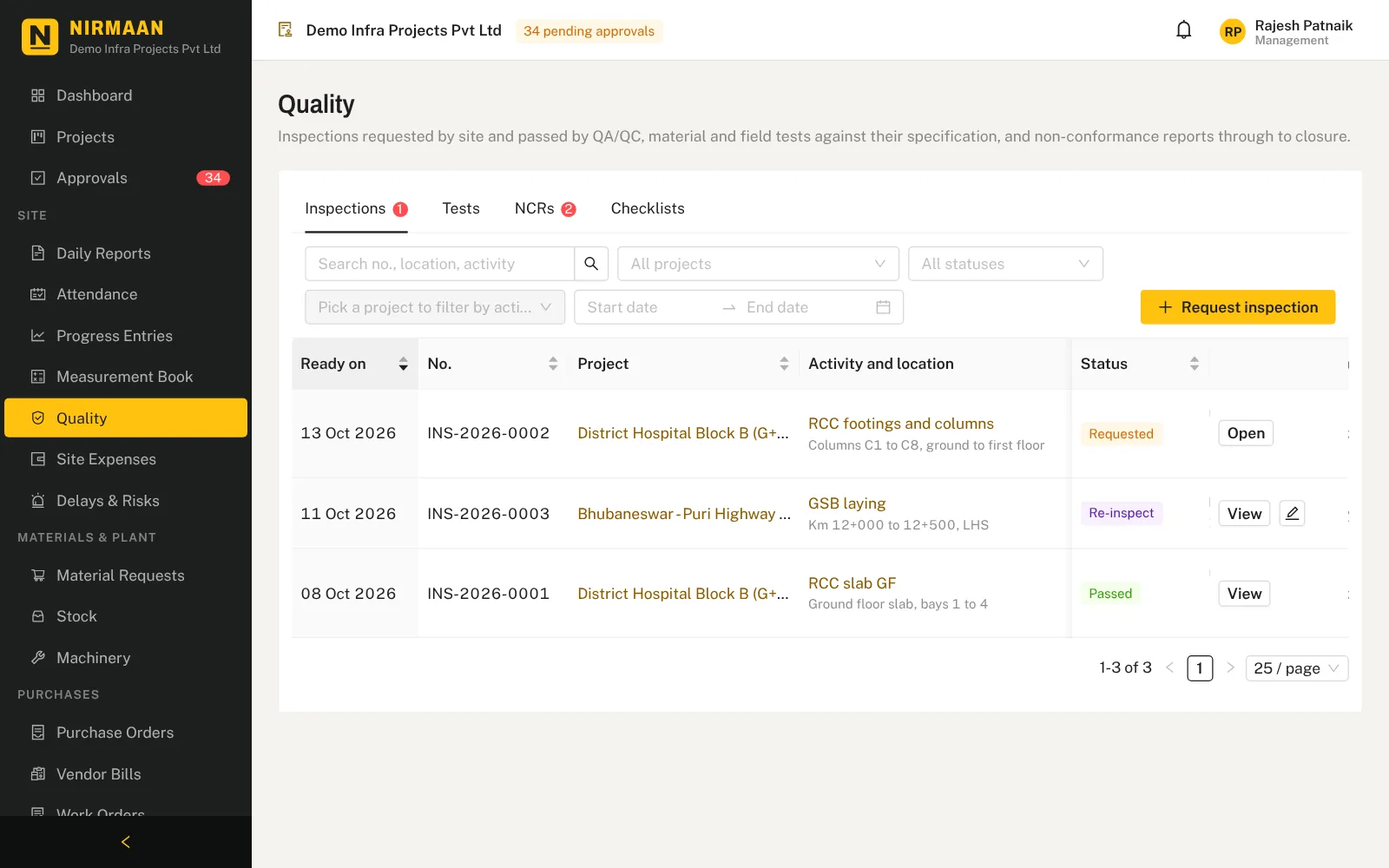
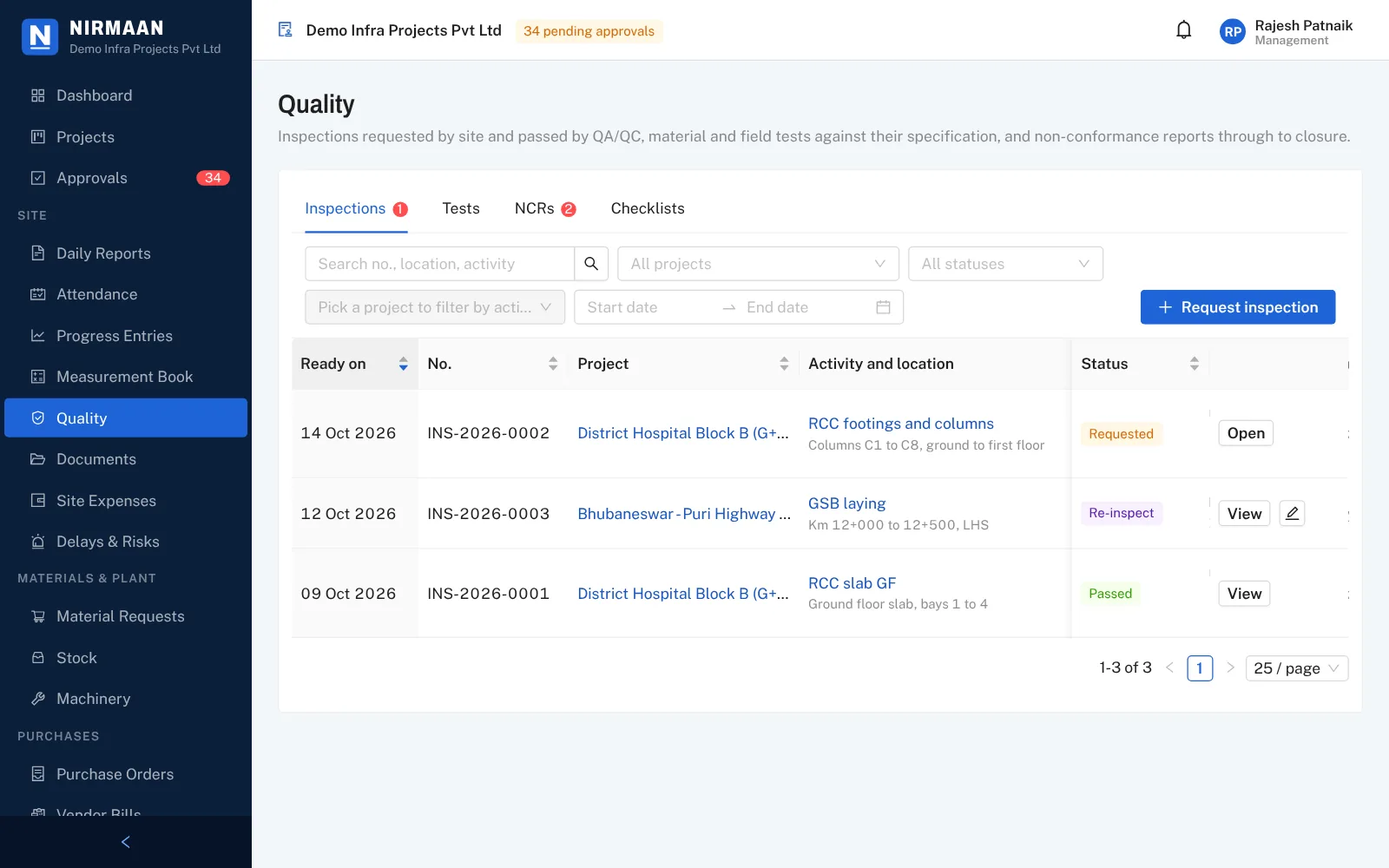
Nirmaan blue theme: blue mark, navy shell and blueprint sign-in
Web: Nirmaan blue (#1E63D6) for the mark, primary buttons, links and the
selected menu item, with white text on it; a blueprint navy (#0B1F3A)
sidebar; the sign-in pages move from yellow with a hazard band to navy
with a faint drawing grid and a blue datum band; cool greys replace the
warm ones. The printed reports and the landing page follow BRAND.

Site app: blue theme, icon, adaptive icon, splash and favicon redrawn in
blue with a white N; navy splash background.

Emails: navy header, blue mark, datum line and button.

Landing page web screenshots re-shot in the new theme.

Claude-Session: https://claude.ai/code/session_012Nf4NrEpVeBAzpdNQcX33d

diff --git a/apps/web/src/app/globals.css b/apps/web/src/app/globals.css
@@ -37,14 +37,20 @@ a {
   white-space: nowrap;
 }
 
-/* Sign-in pages: hi-vis yellow with a hazard-tape band along the bottom edge. */
+/* Sign-in pages: blueprint navy with a faint drawing grid and a blue datum band along the bottom edge. */
 .login-bg {
   position: relative;
   min-height: 100vh;
   display: flex;
   align-items: center;
   justify-content: center;
-  background: var(--brand-accent);
+  background-color: var(--brand-ink);
+  background-image:
+    linear-gradient(rgba(110, 168, 255, 0.07) 1px, transparent 1px),
+    linear-gradient(90deg, rgba(110, 168, 255, 0.07) 1px, transparent 1px),
+    linear-gradient(rgba(110, 168, 255, 0.13) 1px, transparent 1px),
+    linear-gradient(90deg, rgba(110, 168, 255, 0.13) 1px, transparent 1px);
+  background-size: 24px 24px, 24px 24px, 120px 120px, 120px 120px;
   padding: 24px 24px 48px;
 }
 
@@ -54,8 +60,8 @@ a {
   left: 0;
   right: 0;
   bottom: 0;
-  height: 14px;
-  background: repeating-linear-gradient(-45deg, var(--brand-ink) 0 14px, var(--brand-accent) 14px 28px);
+  height: 10px;
+  background: var(--brand-accent);
 }
 
 /* Headings and the wordmark use the condensed display face; figures line up in tables and statistics. */
@@ -127,39 +133,39 @@ h4.ant-typography,
 .lp-wrap { max-width: 1160px; margin: 0 auto; padding: 0 24px; }
 .lp-nav { display: flex; align-items: center; justify-content: space-between; padding: 14px 32px; background: var(--brand-ink); position: sticky; top: 0; z-index: 10; }
 .lp-nav nav { display: flex; align-items: center; gap: 24px; }
-.lp-nav nav a { color: #e9e7e0; font-weight: 500; }
-.lp-nav nav a:hover { color: var(--brand-accent); }
+.lp-nav nav a { color: #e6ebf2; font-weight: 500; }
+.lp-nav nav a:hover { color: var(--brand-accent-light); }
 .lp-brand { display: inline-flex; align-items: center; gap: 10px; }
 .lp-hero { background: var(--brand-ink); color: #fff; display: grid; grid-template-columns: minmax(0, 5fr) minmax(0, 6fr); gap: 40px; align-items: center; padding: 56px max(24px, calc((100vw - 1160px) / 2 + 24px)) 0; overflow: hidden; }
 .lp-hero h1 { color: #fff; font-size: clamp(38px, 5.4vw, 64px); font-weight: 800; font-stretch: 85%; line-height: 1.02; letter-spacing: -0.01em; margin-bottom: 18px; }
-.lp-kicker, .lp-eyebrow { color: var(--brand-accent); text-transform: uppercase; letter-spacing: .14em; font-size: 13px; font-weight: 700; margin-bottom: 14px !important; }
+.lp-kicker, .lp-eyebrow { color: var(--brand-accent-light); text-transform: uppercase; letter-spacing: .14em; font-size: 13px; font-weight: 700; margin-bottom: 14px !important; }
 .lp-eyebrow { color: var(--brand-link); margin-bottom: 8px !important; }
-.lp-lead { font-size: 18px; line-height: 1.55; color: #d8d6cf; max-width: 540px; }
-.lp-small { font-size: 13px; color: #a9a7a0; margin-top: 14px !important; max-width: 520px; }
+.lp-lead { font-size: 18px; line-height: 1.55; color: #cbd5e1; max-width: 540px; }
+.lp-small { font-size: 13px; color: #94a3b8; margin-top: 14px !important; max-width: 520px; }
 .lp-cta { display: flex; gap: 12px; flex-wrap: wrap; margin-top: 28px; }
 .lp-cta-center { justify-content: center; }
-.lp-ghost.ant-btn-default { background: transparent; color: #fff; border-color: #6b6f6c; }
+.lp-ghost.ant-btn-default { background: transparent; color: #fff; border-color: #51627a; }
 .lp-hero-text { padding-bottom: 56px; }
 .lp-hero-art { position: relative; align-self: end; min-height: 380px; }
 .lp-shot-web { width: 100%; height: auto; display: block; border-radius: 10px 10px 0 0; box-shadow: 0 -10px 40px rgba(0,0,0,.45); }
-.lp-shot-phone { position: absolute; left: -36px; bottom: 24px; width: 30%; height: auto; border-radius: 22px; border: 6px solid #0e100f; box-shadow: 0 18px 40px rgba(0,0,0,.5); }
+.lp-shot-phone { position: absolute; left: -36px; bottom: 24px; width: 30%; height: auto; border-radius: 22px; border: 6px solid var(--brand-ink-deep); box-shadow: 0 18px 40px rgba(0,0,0,.5); }
 .lp-datum { height: 8px; background: var(--brand-accent); }
 .lp-band { background: #fff; border-bottom: 1px solid var(--brand-border); padding: 40px 0; }
 .lp-three { display: grid; grid-template-columns: repeat(3, 1fr); gap: 32px; }
 .lp-three .anticon { font-size: 26px; color: var(--brand-link); margin-bottom: 10px; }
 .lp-three h3 { font-size: 20px; font-weight: 800; margin-bottom: 6px; }
-.lp-three p, .lp-card p, .lp-steps p, .lp-feats p, .lp-panel-lead, .lp-final p, .lp-faq details p { color: #4a4e4b; line-height: 1.55; }
+.lp-three p, .lp-card p, .lp-steps p, .lp-feats p, .lp-panel-lead, .lp-final p, .lp-faq details p { color: #475467; line-height: 1.55; }
 .lp-section { padding: 72px 24px; }
 .lp-section h2, .lp-how h2 { font-size: clamp(28px, 3.4vw, 40px); font-weight: 800; font-stretch: 87.5%; line-height: 1.08; margin-bottom: 28px; max-width: 760px; }
 .lp-card { background: #fff; border: 1px solid var(--brand-border); border-radius: 8px; padding: 20px; }
 .lp-card h3 { font-size: 18px; font-weight: 700; margin: 0 0 6px; }
-.lp-icon { display: inline-flex; flex: 0 0 36px; width: 36px; height: 36px; border-radius: 8px; align-items: center; justify-content: center; background: var(--brand-accent); color: var(--brand-ink); font-size: 18px; }
+.lp-icon { display: inline-flex; flex: 0 0 36px; width: 36px; height: 36px; border-radius: 8px; align-items: center; justify-content: center; background: var(--brand-accent); color: var(--brand-on-accent); font-size: 18px; }
 
 /* Module tabs */
 .lp-tabs { display: flex; gap: 6px; flex-wrap: wrap; padding: 4px; background: #fff; border: 1px solid var(--brand-border); border-radius: 10px; width: fit-content; max-width: 100%; margin-bottom: 28px; }
 .lp-tab { appearance: none; border: 0; background: transparent; color: var(--brand-ink); font: inherit; font-weight: 600; padding: 9px 16px; border-radius: 7px; cursor: pointer; }
 .lp-tab:hover { background: var(--brand-canvas); }
-.lp-tab[aria-selected='true'] { background: var(--brand-ink); color: var(--brand-accent); }
+.lp-tab[aria-selected='true'] { background: var(--brand-ink); color: #fff; }
 .lp-tab:focus-visible { outline: 2px solid var(--brand-accent-deep); outline-offset: 2px; }
 .lp-panel { display: grid; grid-template-columns: minmax(0, 5fr) minmax(0, 7fr); gap: 40px; align-items: start; }
 .lp-panel[hidden] { display: none; }
@@ -170,7 +176,7 @@ h4.ant-typography,
 .lp-feats li { display: flex; gap: 14px; align-items: flex-start; }
 .lp-feats h4 { font-size: 16px; font-weight: 700; margin-bottom: 2px; }
 .lp-feats p { font-size: 14px; }
-.lp-frame { margin: 0; background: #fff; border: 1px solid var(--brand-border); border-radius: 10px; overflow: hidden; box-shadow: 0 18px 40px rgba(28,31,30,.12); }
+.lp-frame { margin: 0; background: #fff; border: 1px solid var(--brand-border); border-radius: 10px; overflow: hidden; box-shadow: 0 18px 40px rgba(11,31,58,.12); }
 .lp-frame-bar { display: flex; gap: 6px; padding: 9px 12px; background: var(--brand-canvas); border-bottom: 1px solid var(--brand-border); }
 .lp-frame-bar i { width: 9px; height: 9px; border-radius: 50%; background: var(--brand-border); }
 .lp-frame img { width: 100%; height: auto; display: block; }
@@ -178,16 +184,16 @@ h4.ant-typography,
 /* Money flows on dark */
 .lp-dark { background: var(--brand-ink); }
 .lp-dark h2 { color: #fff; }
-.lp-dark .lp-eyebrow { color: var(--brand-accent); }
-.lp-dark-lead { color: #d8d6cf; font-size: 17px; line-height: 1.55; max-width: 680px; margin: -12px 0 32px !important; }
+.lp-dark .lp-eyebrow { color: var(--brand-accent-light); }
+.lp-dark-lead { color: #cbd5e1; font-size: 17px; line-height: 1.55; max-width: 680px; margin: -12px 0 32px !important; }
 .lp-flows { display: flex; flex-direction: column; gap: 14px; }
 .lp-flow { display: grid; grid-template-columns: 210px minmax(0, 1fr); gap: 16px; align-items: center; padding: 16px 18px; border: 1px solid var(--brand-primary-deep); border-radius: 10px; background: var(--brand-ink-deep); }
-.lp-flow-name { color: var(--brand-accent); font-family: var(--font-display), Arial, sans-serif; font-weight: 800; font-size: 18px; }
+.lp-flow-name { color: var(--brand-accent-light); font-family: var(--font-display), Arial, sans-serif; font-weight: 800; font-size: 18px; }
 .lp-flow ol { list-style: none; margin: 0; padding: 0; display: flex; flex-wrap: wrap; align-items: center; gap: 8px; }
-.lp-flow li { color: #e9e7e0; font-size: 14px; font-weight: 500; padding: 6px 12px; border: 1px solid #6b6f6c; border-radius: 999px; position: relative; }
+.lp-flow li { color: #e6ebf2; font-size: 14px; font-weight: 500; padding: 6px 12px; border: 1px solid #51627a; border-radius: 999px; position: relative; }
 .lp-flow li + li { margin-left: 18px; }
-.lp-flow li + li::before { content: ''; position: absolute; left: -20px; top: 50%; width: 14px; height: 2px; background: var(--brand-accent); }
-.lp-flow li.lp-flow-end { background: var(--brand-accent); border-color: var(--brand-accent); color: var(--brand-ink); font-weight: 700; margin-left: 0; }
+.lp-flow li + li::before { content: ''; position: absolute; left: -20px; top: 50%; width: 14px; height: 2px; background: var(--brand-accent-light); }
+.lp-flow li.lp-flow-end { background: var(--brand-accent); border-color: var(--brand-accent); color: var(--brand-on-accent); font-weight: 700; margin-left: 0; }
 .lp-flow li.lp-flow-end::before { display: none; }
 .lp-flow li.lp-flow-end .anticon { margin-right: 4px; }
 
@@ -195,7 +201,7 @@ h4.ant-typography,
 .lp-local { display: grid; grid-template-columns: minmax(0, 5fr) minmax(0, 6fr); gap: 48px; align-items: center; }
 .lp-checks { list-style: none; padding: 0; margin: 0; display: flex; flex-direction: column; gap: 12px; }
 .lp-checks li { display: flex; gap: 12px; align-items: flex-start; line-height: 1.5; }
-.lp-checks .anticon { flex: 0 0 22px; height: 22px; border-radius: 50%; background: var(--brand-ink); color: var(--brand-accent); display: inline-flex; align-items: center; justify-content: center; font-size: 12px; margin-top: 1px; }
+.lp-checks .anticon { flex: 0 0 22px; height: 22px; border-radius: 50%; background: var(--brand-accent); color: var(--brand-on-accent); display: inline-flex; align-items: center; justify-content: center; font-size: 12px; margin-top: 1px; }
 
 /* Roles */
 .lp-roles { background: #fff; border-top: 1px solid var(--brand-border); }
@@ -208,9 +214,9 @@ h4.ant-typography,
 .lp-steps { list-style: none; padding: 0; margin: 0; display: flex; flex-direction: column; gap: 22px; }
 .lp-steps li { display: flex; gap: 16px; }
 .lp-steps h3 { font-size: 20px; font-weight: 800; margin-bottom: 4px; }
-.lp-num { flex: 0 0 40px; height: 40px; border-radius: 50%; background: var(--brand-ink); color: var(--brand-accent); display: inline-flex; align-items: center; justify-content: center; font-weight: 800; font-family: var(--font-display), Arial, sans-serif; font-size: 18px; }
+.lp-num { flex: 0 0 40px; height: 40px; border-radius: 50%; background: var(--brand-accent); color: var(--brand-on-accent); display: inline-flex; align-items: center; justify-content: center; font-weight: 800; font-family: var(--font-display), Arial, sans-serif; font-size: 18px; }
 .lp-phones { display: flex; gap: 20px; justify-content: center; }
-.lp-phones img { width: 44%; max-width: 250px; height: auto; border-radius: 22px; border: 6px solid var(--brand-ink); box-shadow: 0 14px 30px rgba(28,31,30,.18); }
+.lp-phones img { width: 44%; max-width: 250px; height: auto; border-radius: 22px; border: 6px solid var(--brand-ink); box-shadow: 0 14px 30px rgba(11,31,58,.18); }
 
 /* FAQ */
 .lp-faq > div { max-width: 820px; border-top: 1px solid var(--brand-border); }
@@ -226,11 +232,11 @@ h4.ant-typography,
 .lp-final h2 { margin-left: auto; margin-right: auto; }
 .lp-final p { max-width: 580px; margin: -12px auto 0 !important; }
 .lp-final-icon { font-size: 34px; color: var(--brand-link); margin-bottom: 12px; }
-.lp-foot { background: var(--brand-ink); color: #a9a7a0; padding: 22px 0; font-size: 13px; }
+.lp-foot { background: var(--brand-ink); color: #94a3b8; padding: 22px 0; font-size: 13px; }
 .lp-foot-inner { display: flex; align-items: center; justify-content: space-between; gap: 16px; flex-wrap: wrap; }
 .lp-foot-links { display: flex; gap: 18px; flex-wrap: wrap; }
-.lp-foot-links a { color: #e9e7e0; }
-.lp-foot-links a:hover { color: var(--brand-accent); }
+.lp-foot-links a { color: #e6ebf2; }
+.lp-foot-links a:hover { color: var(--brand-accent-light); }
 
 @media (max-width: 1000px) {
   .lp-role-grid { grid-template-columns: repeat(2, 1fr); }

diff --git a/apps/api/src/notifications/email-layout.ts b/apps/api/src/notifications/email-layout.ts
@@ -2,12 +2,12 @@ import { PRODUCT_NAME } from '@erp/shared';
 import { escapeHtml } from './email.service';
 
 /**
- * The Nirmaan frame for every email: a black header with the yellow N mark and wordmark, a yellow datum line,
+ * The Nirmaan frame for every email: a navy header with the blue N mark and wordmark, a blue datum line,
  * the message on white, and a short footer. Tables and inline styles only, and the mark is drawn in HTML rather
  * than an image, so it shows in Gmail and Outlook with images blocked. Same colours as the web brand
  * (apps/web/src/lib/brand.ts).
  */
-export const EMAIL_COLORS = { ink: '#1C1F1E', accent: '#FFC20E', canvas: '#F4F3EF', border: '#E3E1DA', muted: '#6B6F6C', link: '#8A5A00' } as const;
+export const EMAIL_COLORS = { ink: '#0B1F3A', accent: '#1E63D6', onAccent: '#FFFFFF', canvas: '#F3F6FA', border: '#DCE3ED', muted: '#5B6779', link: '#1A56BF' } as const;
 
 const DISPLAY = `Archivo,'Arial Narrow','Helvetica Neue',Arial,sans-serif`;
 const BODY = `-apple-system,'Segoe UI',Roboto,Helvetica,Arial,sans-serif`;
@@ -23,15 +23,15 @@ export interface EmailLayout {
   footnote?: string;
 }
 
-/** A call-to-action button on the brand yellow. */
+/** A call-to-action button on the brand blue. */
 export function emailButton(href: string, label: string) {
   return `<table role="presentation" cellpadding="0" cellspacing="0" style="margin:24px 0"><tr><td style="background:${EMAIL_COLORS.accent};border-radius:4px">
-    <a href="${escapeHtml(href)}" style="display:inline-block;padding:11px 20px;font-family:${BODY};font-size:15px;font-weight:700;color:${EMAIL_COLORS.ink};text-decoration:none">${escapeHtml(label)}</a>
+    <a href="${escapeHtml(href)}" style="display:inline-block;padding:11px 20px;font-family:${BODY};font-size:15px;font-weight:700;color:${EMAIL_COLORS.onAccent};text-decoration:none">${escapeHtml(label)}</a>
   </td></tr></table>`;
 }
 
 export function emailLayout({ preheader, body, orgName, footnote }: EmailLayout) {
-  const mark = `<td style="width:28px;height:28px;background:${EMAIL_COLORS.accent};border-radius:6px;text-align:center;vertical-align:middle;font-family:${DISPLAY};font-size:19px;font-weight:800;line-height:28px;color:${EMAIL_COLORS.ink}">N</td>`;
+  const mark = `<td style="width:28px;height:28px;background:${EMAIL_COLORS.accent};border-radius:6px;text-align:center;vertical-align:middle;font-family:${DISPLAY};font-size:19px;font-weight:800;line-height:28px;color:${EMAIL_COLORS.onAccent}">N</td>`;
   const wordmark = `<td style="padding-left:10px;font-family:${DISPLAY};font-size:17px;font-weight:800;letter-spacing:2px;color:#FFFFFF">${escapeHtml(PRODUCT_NAME.toUpperCase())}</td>`;
   return `<!doctype html><html><head><meta charset="utf-8"/><meta name="viewport" content="width=device-width,initial-scale=1"/><meta name="color-scheme" content="light"/></head>
 <body style="margin:0;padding:0;background:${EMAIL_COLORS.canvas}">

diff --git a/apps/web/src/lib/brand.ts b/apps/web/src/lib/brand.ts
@@ -11,23 +11,27 @@ export const BRAND = {
   wordmark: 'NIRMAAN',
   description: 'Site progress, billing, purchases, quality and approvals for construction contractors',
   colors: {
-    /** Signboard black: antd primary (checkboxes, tabs, progress bars), sidebar, headings in printed reports. */
-    primary: '#1C1F1E',
-    /** Menu hover on the dark sidebar. */
-    primaryDeep: '#2E3230',
-    ink: '#1C1F1E',
-    inkDeep: '#0E100F',
-    /** Hi-vis yellow: the mark, primary buttons, the selected menu item. Text on it is `ink`. */
-    accent: '#FFC20E',
-    accentDeep: '#E0A800',
-    /** Links: a dark amber that reads on white. */
-    link: '#8A5A00',
-    /** Pending and alerts (brick orange; yellow is the brand, so it cannot also mean "pending"). */
+    /** Nirmaan blue: antd primary (buttons, checkboxes, tabs, progress bars, the selected menu item). */
+    primary: '#1E63D6',
+    /** Menu hover on the navy sidebar. */
+    primaryDeep: '#17345E',
+    /** Blueprint navy: the sidebar, the sign-in page, headings in printed reports. */
+    ink: '#0B1F3A',
+    inkDeep: '#061328',
+    /** Nirmaan blue: the mark, primary buttons, the selected menu item. Text on it is `onAccent`. */
+    accent: '#1E63D6',
+    accentDeep: '#164FB3',
+    /** A lighter blue for text and icons on the navy (the wordmark's surroundings, landing page highlights). */
+    accentLight: '#6EA8FF',
+    onAccent: '#FFFFFF',
+    /** Links: a deeper blue that reads on white. */
+    link: '#1A56BF',
+    /** Pending and alerts (brick orange, so it never reads as the brand blue). */
     pending: '#C2410C',
     /** Approve and pass buttons. */
     success: '#1F9D55',
-    canvas: '#F4F3EF',
-    border: '#E3E1DA',
+    canvas: '#F3F6FA',
+    border: '#DCE3ED',
   },
 } as const;
 
@@ -39,6 +43,8 @@ export const brandCssVars: Record<string, string> = {
   '--brand-ink-deep': BRAND.colors.inkDeep,
   '--brand-accent': BRAND.colors.accent,
   '--brand-accent-deep': BRAND.colors.accentDeep,
+  '--brand-accent-light': BRAND.colors.accentLight,
+  '--brand-on-accent': BRAND.colors.onAccent,
   '--brand-link': BRAND.colors.link,
   '--brand-canvas': BRAND.colors.canvas,
   '--brand-border': BRAND.colors.border,

diff --git a/apps/web/src/components/print/printBrand.ts b/apps/web/src/components/print/printBrand.ts
@@ -1,8 +1,8 @@
 import { BRAND } from '@/lib/brand';
 
 /**
- * The Nirmaan look for the printable documents (DPR, progress report): Archivo headings, the black rule with
- * the yellow datum line under the header, and a footer with the N mark. The organisation's own name stays the
+ * The Nirmaan look for the printable documents (DPR, progress report): Archivo headings, the navy rule with
+ * the blue datum line under the header, and a footer with the N mark. The organisation's own name stays the
  * main heading, since the report is theirs; Nirmaan signs the footer.
  */
 
@@ -14,7 +14,7 @@ const DISPLAY = `"Archivo", "Arial Narrow", "Helvetica Neue", Arial, sans-serif`
 
 /** The mark as inline SVG (same drawing as app/icon.svg and BrandMark). */
 export function markSvg(size: number) {
-  return `<svg width="${size}" height="${size}" viewBox="0 0 64 64" aria-hidden="true" style="display:block;flex:0 0 auto"><rect width="64" height="64" rx="12" fill="${BRAND.colors.accent}"/><path d="M15 46V12h9.5l15 20.5V12H49v34h-9.5L24.5 25.5V46z" fill="${BRAND.colors.ink}"/><rect x="15" y="50" width="34" height="3" rx="1.5" fill="${BRAND.colors.ink}"/></svg>`;
+  return `<svg width="${size}" height="${size}" viewBox="0 0 64 64" aria-hidden="true" style="display:block;flex:0 0 auto"><rect width="64" height="64" rx="12" fill="${BRAND.colors.accent}"/><path d="M15 46V12h9.5l15 20.5V12H49v34h-9.5L24.5 25.5V46z" fill="${BRAND.colors.onAccent}"/><rect x="15" y="50" width="34" height="3" rx="1.5" fill="${BRAND.colors.onAccent}"/></svg>`;
 }
 
 /** Styles shared by both documents; each document keeps its own layout CSS. */

diff --git a/apps/web/src/app/providers.tsx b/apps/web/src/app/providers.tsx
@@ -32,14 +32,14 @@ export function Providers({ children }: { children: React.ReactNode }) {
           fontFamily: "var(--font-body), -apple-system, BlinkMacSystemFont, 'Segoe UI', Roboto, Arial, sans-serif",
         },
         components: {
-          Layout: { headerBg: '#ffffff', siderBg: c.ink, bodyBg: c.canvas, triggerBg: c.inkDeep, triggerColor: c.accent },
-          // Primary buttons are hi-vis yellow with black text; everything else that is "primary" stays black.
-          Button: { colorPrimary: c.accent, colorPrimaryHover: c.accentDeep, colorPrimaryActive: c.accentDeep, primaryColor: c.ink, primaryShadow: 'none', fontWeight: 600 },
+          Layout: { headerBg: '#ffffff', siderBg: c.ink, bodyBg: c.canvas, triggerBg: c.inkDeep, triggerColor: c.accentLight },
+          // Primary buttons are Nirmaan blue with white text.
+          Button: { colorPrimary: c.accent, colorPrimaryHover: c.accentDeep, colorPrimaryActive: c.accentDeep, primaryColor: c.onAccent, primaryShadow: 'none', fontWeight: 600 },
           Menu: {
             darkItemBg: c.ink,
             darkSubMenuItemBg: c.ink,
             darkItemSelectedBg: c.accent,
-            darkItemSelectedColor: c.ink,
+            darkItemSelectedColor: c.onAccent,
             darkItemHoverBg: c.primaryDeep,
             darkGroupTitleColor: 'rgba(255,255,255,0.45)',
             itemHeight: 36,

diff --git a/apps/mobile/src/theme.ts b/apps/mobile/src/theme.ts
@@ -1,24 +1,24 @@
 import type { SubmissionStatus } from '@erp/shared';
 
 /**
- * Nirmaan palette (same as the web app's src/lib/brand.ts). `primary` is signboard black for text, icons and
- * selection; `brand` is hi-vis yellow for the mark and primary buttons, always with `onBrand` text. Yellow is the
- * brand, so "pending" uses brick orange (`warning`).
+ * Nirmaan palette (same as the web app's src/lib/brand.ts). `primary` is Nirmaan blue for links, icons and
+ * selection, `primaryDark` the blueprint navy for big figures; `brand` is the same blue for the mark and primary
+ * buttons, always with `onBrand` (white) text. "Pending" uses brick orange (`warning`) so it never reads as the brand.
  */
 export const colors = {
-  primary: '#1C1F1E',
-  primaryDark: '#0E100F',
-  primarySoft: '#ECEBE6',
-  brand: '#FFC20E',
-  brandSoft: '#FFF4CC',
-  onBrand: '#1C1F1E',
+  primary: '#1E63D6',
+  primaryDark: '#0B1F3A',
+  primarySoft: '#E6EEFB',
+  brand: '#1E63D6',
+  brandSoft: '#DCE8FB',
+  onBrand: '#FFFFFF',
   accent: '#EA580C',
   accentSoft: '#FFEDD5',
-  bg: '#F4F3EF',
+  bg: '#F3F6FA',
   surface: '#FFFFFF',
-  border: '#E3E1DA',
-  text: '#1C1F1E',
-  textMuted: '#5E625F',
+  border: '#DCE3ED',
+  text: '#0F1B2D',
+  textMuted: '#5B6779',
   textOnPrimary: '#FFFFFF',
   success: '#1B7F4B',
   successSoft: '#E2F3E9',

diff --git a/apps/web/src/components/shell/AppShell.tsx b/apps/web/src/components/shell/AppShell.tsx
@@ -72,7 +72,7 @@ function Brand({ user, collapsed }: { user: AuthUser; collapsed: boolean }) {
       <BrandMark />
       {!collapsed && (
         <div style={{ lineHeight: 1.15, whiteSpace: 'nowrap' }}>
-          <Wordmark color={BRAND.colors.accent} size={19} />
+          <Wordmark color={BRAND.colors.onAccent} size={19} />
           <div style={{ color: 'rgba(255,255,255,0.55)', fontSize: 11, marginTop: 4 }}>{user.organizationName}</div>
         </div>
       )}
@@ -251,7 +251,7 @@ export function AppShell({ user, children }: { user: AuthUser; children: React.R
             <Dropdown menu={{ items: userMenu }} trigger={['click']}>
             <Button type="text" style={{ height: 40, padding: '0 8px' }}>
               <Space>
-                <Avatar size="small" style={{ background: BRAND.colors.accent, color: BRAND.colors.ink, fontWeight: 700 }}>
+                <Avatar size="small" style={{ background: BRAND.colors.accent, color: BRAND.colors.onAccent, fontWeight: 700 }}>
                   {initials}
                 </Avatar>
                 {!isMobile && (

diff --git a/apps/web/src/components/shell/BrandMark.tsx b/apps/web/src/components/shell/BrandMark.tsx
@@ -1,13 +1,13 @@
 import React from 'react';
 import { BRAND } from '@/lib/brand';
 
-/** The logo mark (a heavy N on a datum line, on hi-vis yellow) used in the sidebar, the mobile header and the sign-in card. Same drawing as app/icon.svg. */
+/** The logo mark (a heavy N on a datum line, white on Nirmaan blue) used in the sidebar, the mobile header and the sign-in card. Same drawing as app/icon.svg. */
 export function BrandMark({ size = 34 }: { size?: number }) {
   return (
     <svg width={size} height={size} viewBox="0 0 64 64" style={{ flex: '0 0 auto', display: 'block' }} aria-hidden>
       <rect width="64" height="64" rx="12" fill={BRAND.colors.accent} />
-      <path d="M15 46V12h9.5l15 20.5V12H49v34h-9.5L24.5 25.5V46z" fill={BRAND.colors.ink} />
-      <rect x="15" y="50" width="34" height="3" rx="1.5" fill={BRAND.colors.ink} />
+      <path d="M15 46V12h9.5l15 20.5V12H49v34h-9.5L24.5 25.5V46z" fill={BRAND.colors.onAccent} />
+      <rect x="15" y="50" width="34" height="3" rx="1.5" fill={BRAND.colors.onAccent} />
     </svg>
   );
 }

diff --git a/apps/mobile/src/notifications/push.ts b/apps/mobile/src/notifications/push.ts
@@ -4,6 +4,7 @@ import * as Device from 'expo-device';
 import * as Notifications from 'expo-notifications';
 import type { PushPlatform } from '@erp/shared';
 import { OUTBOX_DETAIL } from '../offline/types';
+import { colors } from '../theme';
 
 export type PushStatus =
   /** Token obtained and ready to be registered with the API. */
@@ -53,7 +54,7 @@ export async function getPushRegistration(): Promise<PushRegistration> {
         name: 'Site updates',
         importance: Notifications.AndroidImportance.HIGH,
         vibrationPattern: [0, 250, 250, 250],
-        lightColor: '#1D4ED8',
+        lightColor: colors.brand,
       });
     }
     let { status } = await Notifications.getPermissionsAsync();

diff --git a/apps/web/src/components/auth/AuthCard.tsx b/apps/web/src/components/auth/AuthCard.tsx
@@ -9,7 +9,7 @@ import { BrandMark, Wordmark } from '@/components/shell/BrandMark';
 export function AuthCard({ subtitle, children, width = 420 }: { subtitle: React.ReactNode; children: React.ReactNode; width?: number }) {
   return (
     <div className="login-bg">
-      <Card style={{ width, maxWidth: '100%', boxShadow: '0 18px 50px rgba(28,31,30,0.28)', zIndex: 1 }}>
+      <Card style={{ width, maxWidth: '100%', boxShadow: '0 18px 50px rgba(6,19,40,0.45)', zIndex: 1 }}>
         <Space orientation="vertical" size={4} style={{ width: '100%', marginBottom: 20 }}>
           <Space align="center">
             <BrandMark size={40} />

diff --git a/apps/web/src/components/projects/ProjectOverview.tsx b/apps/web/src/components/projects/ProjectOverview.tsx
@@ -30,7 +30,7 @@ export function ProjectOverview({ project }: { project: ProjectDetail }) {
           <Col xs={12} md={6}>
             <Card size="small" loading={isLoading}>
               <Statistic title="Financial progress" value={finPct} suffix="%" precision={1} />
-              <Progress percent={finPct} size="small" showInfo={false} strokeColor={BRAND.colors.accentDeep} />
+              <Progress percent={finPct} size="small" showInfo={false} strokeColor={BRAND.colors.ink} />
             </Card>
           </Col>
           <Col xs={12} md={6}>

diff --git a/apps/web/src/components/projects/MembersCard.tsx b/apps/web/src/components/projects/MembersCard.tsx
@@ -87,7 +87,7 @@ export function MembersCard({ project }: { project: ProjectDetail }) {
           >
             <List.Item.Meta
               avatar={
-                <Avatar size="small" style={{ background: m.isPm ? BRAND.colors.accentDeep : BRAND.colors.primary }}>
+                <Avatar size="small" style={{ background: m.isPm ? BRAND.colors.ink : BRAND.colors.primary }}>
                   {m.fullName
                     .split(' ')
                     .map((s) => s[0])
